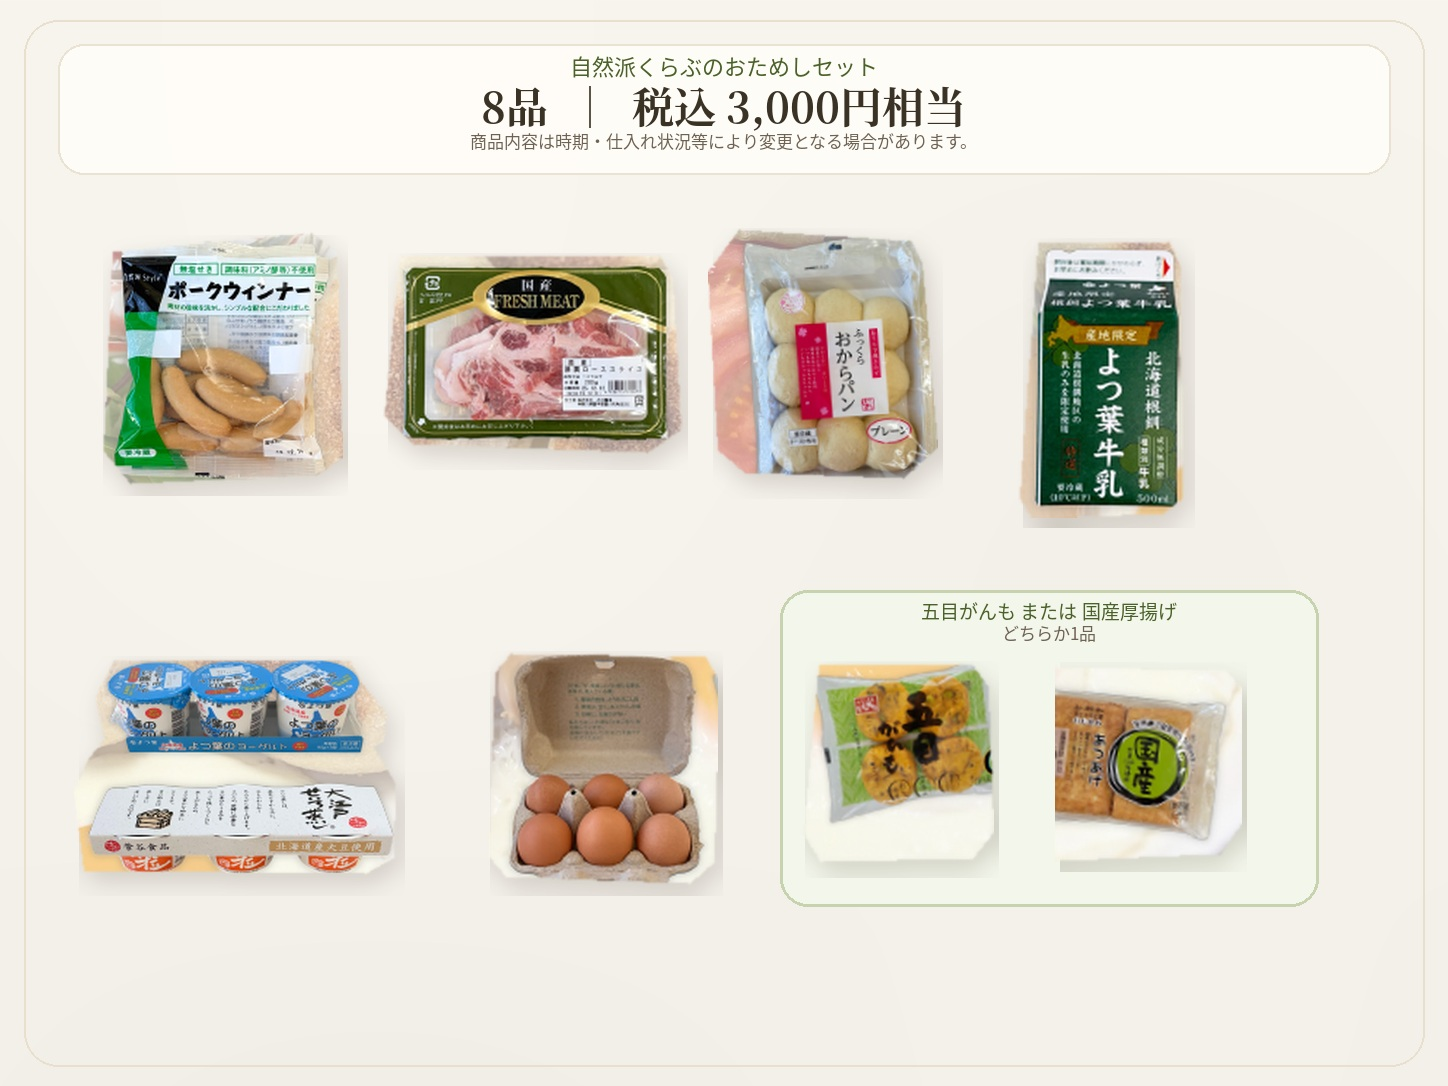
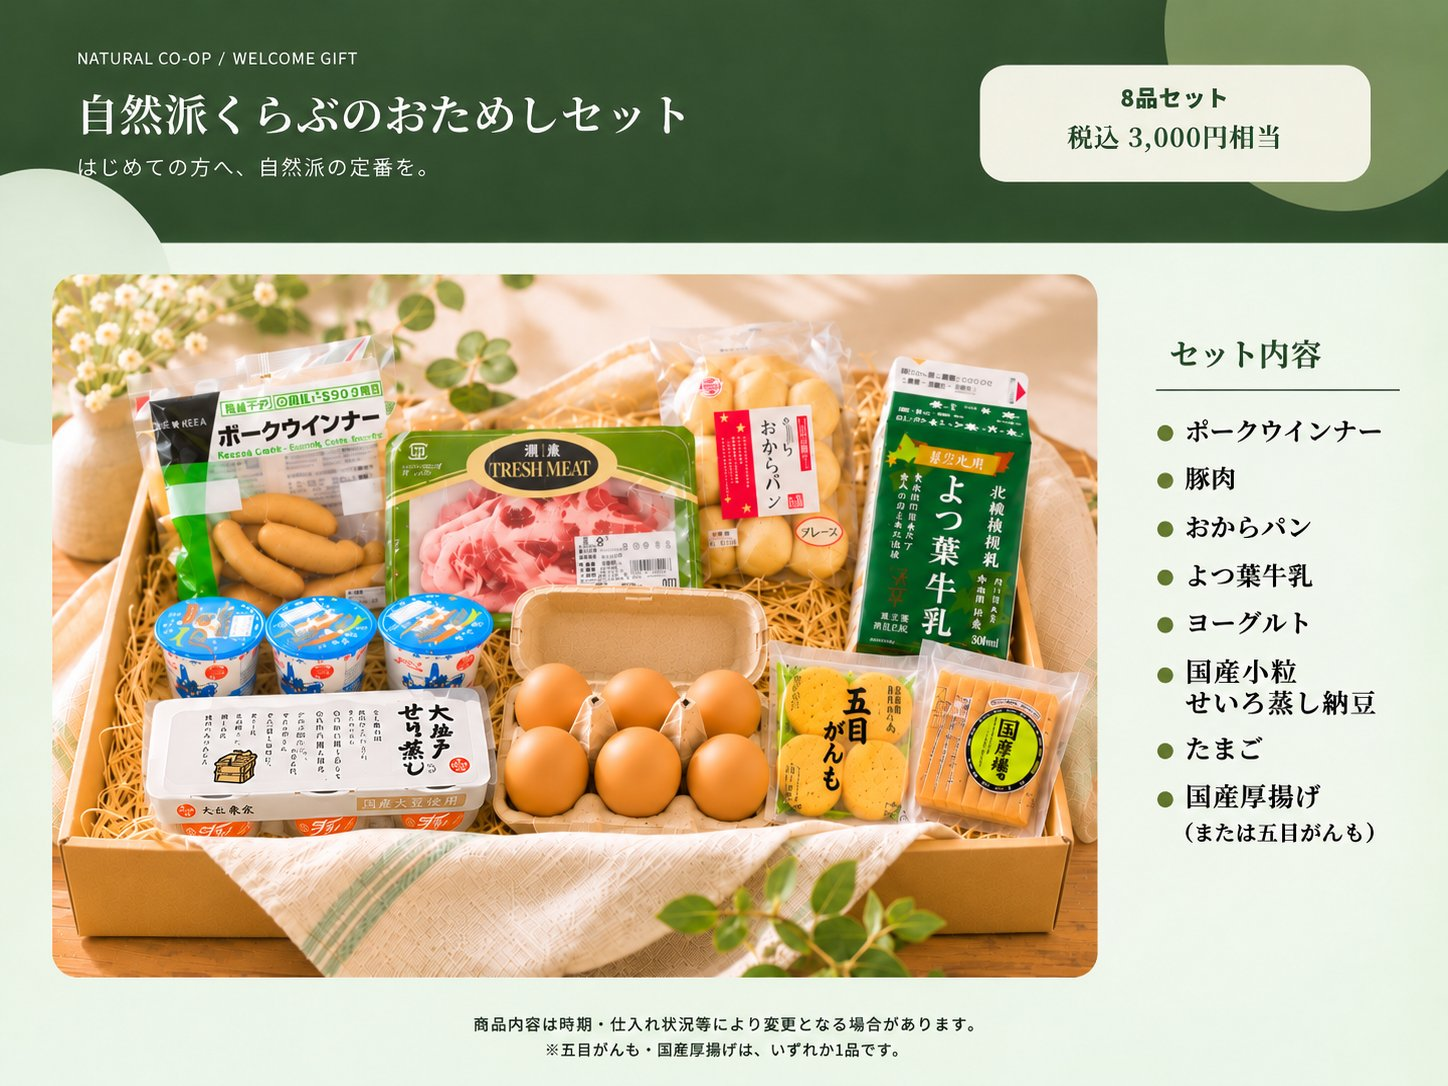
おためしセットの画像を新しいパネル画像に差し替え

diff --git a/index.html b/index.html
@@ -183,7 +183,7 @@ footer b{display:block;color:var(--ink);font-size:14px;margin-bottom:4px}
 
   <a class="cta" href="https://kakudai1.f-form.com/nvqK41OV">おともだちを紹介する<small>組合員番号と、おともだちのご連絡先を入力します</small></a>
 
-  <div class="photo"><img src="otameshi-set.jpg" alt="自然派くらぶのおためしセット 8品（税込3,000円相当）"></div>
+  <div class="photo"><img src="otameshi-set.jpg" alt="自然派くらぶのおためしセット 8品セット（税込3,000円相当）：ポークウインナー、豚肉、おからパン、よつ葉牛乳、ヨーグルト、国産小粒せいろ蒸し納豆、たまご、国産厚揚げ（または五目がんも）"></div>
 
   <section>
     <h2 class="min"><small>WHY SHIZENHA</small>紹介したくなる理由</h2>
